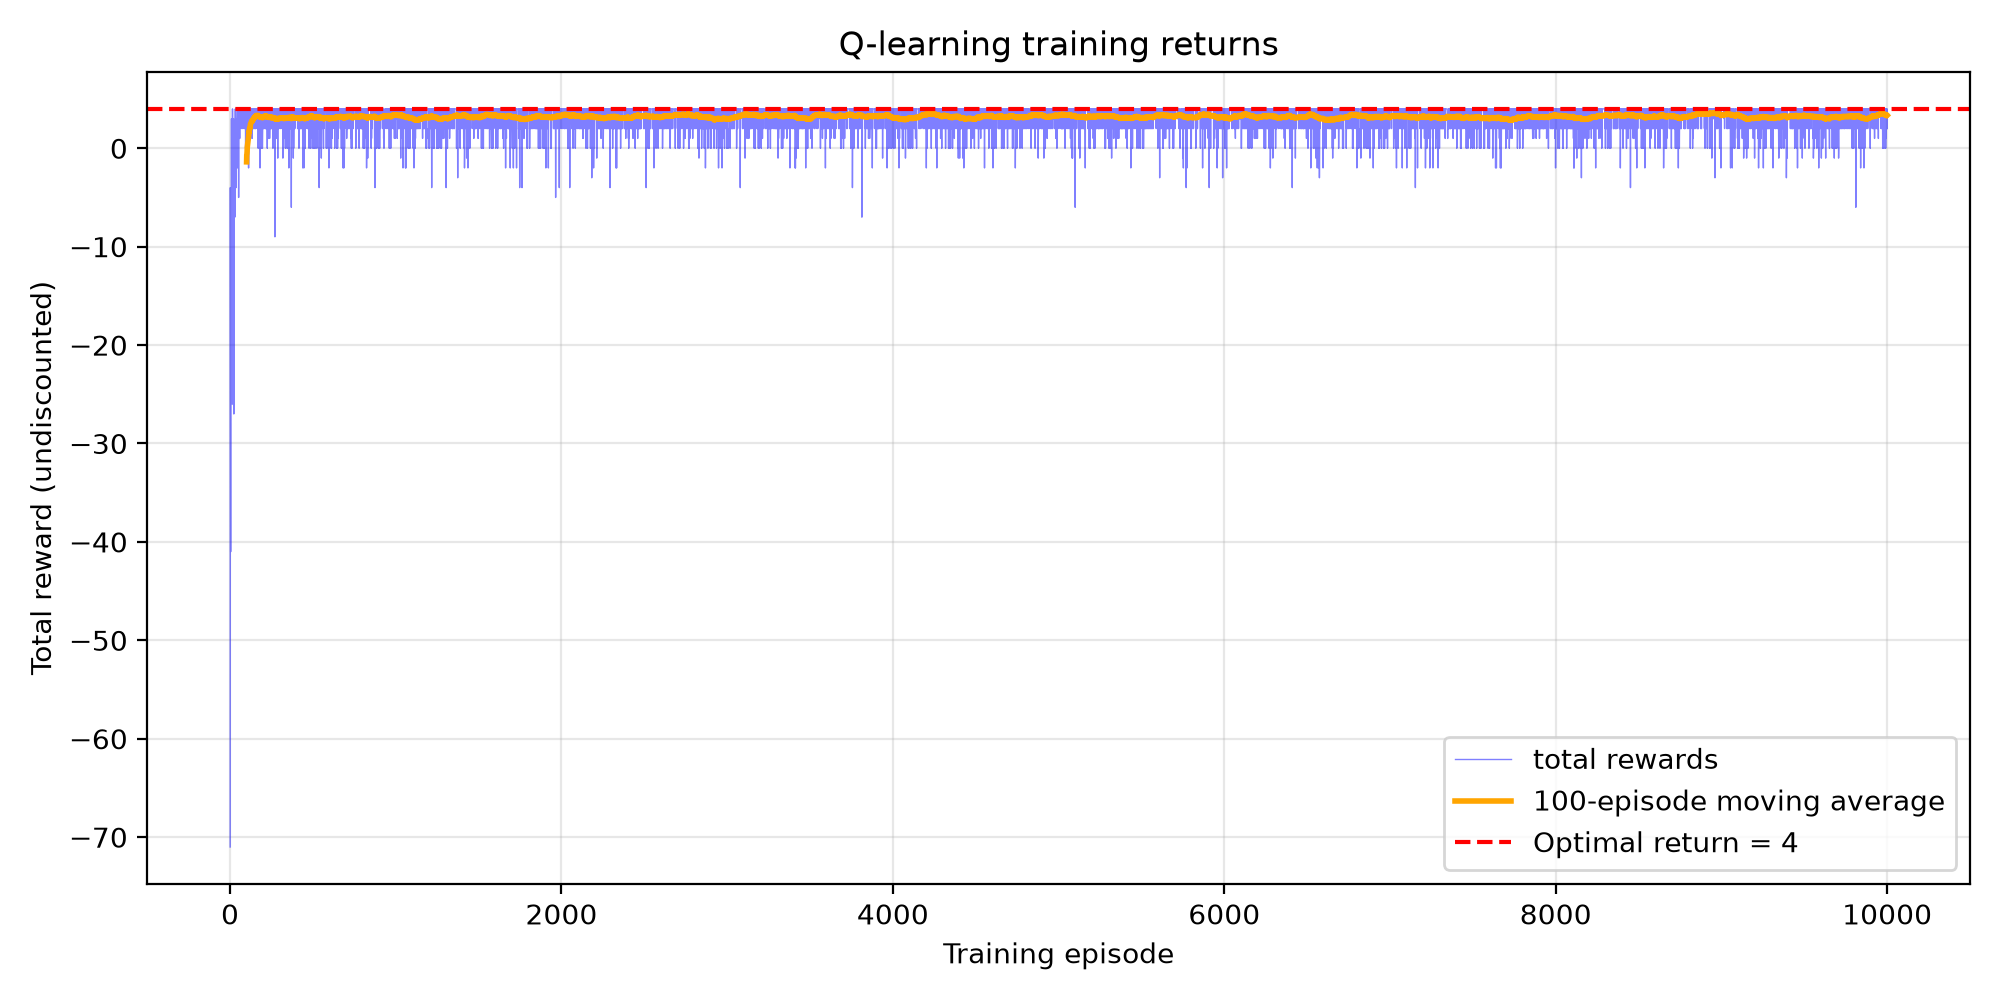
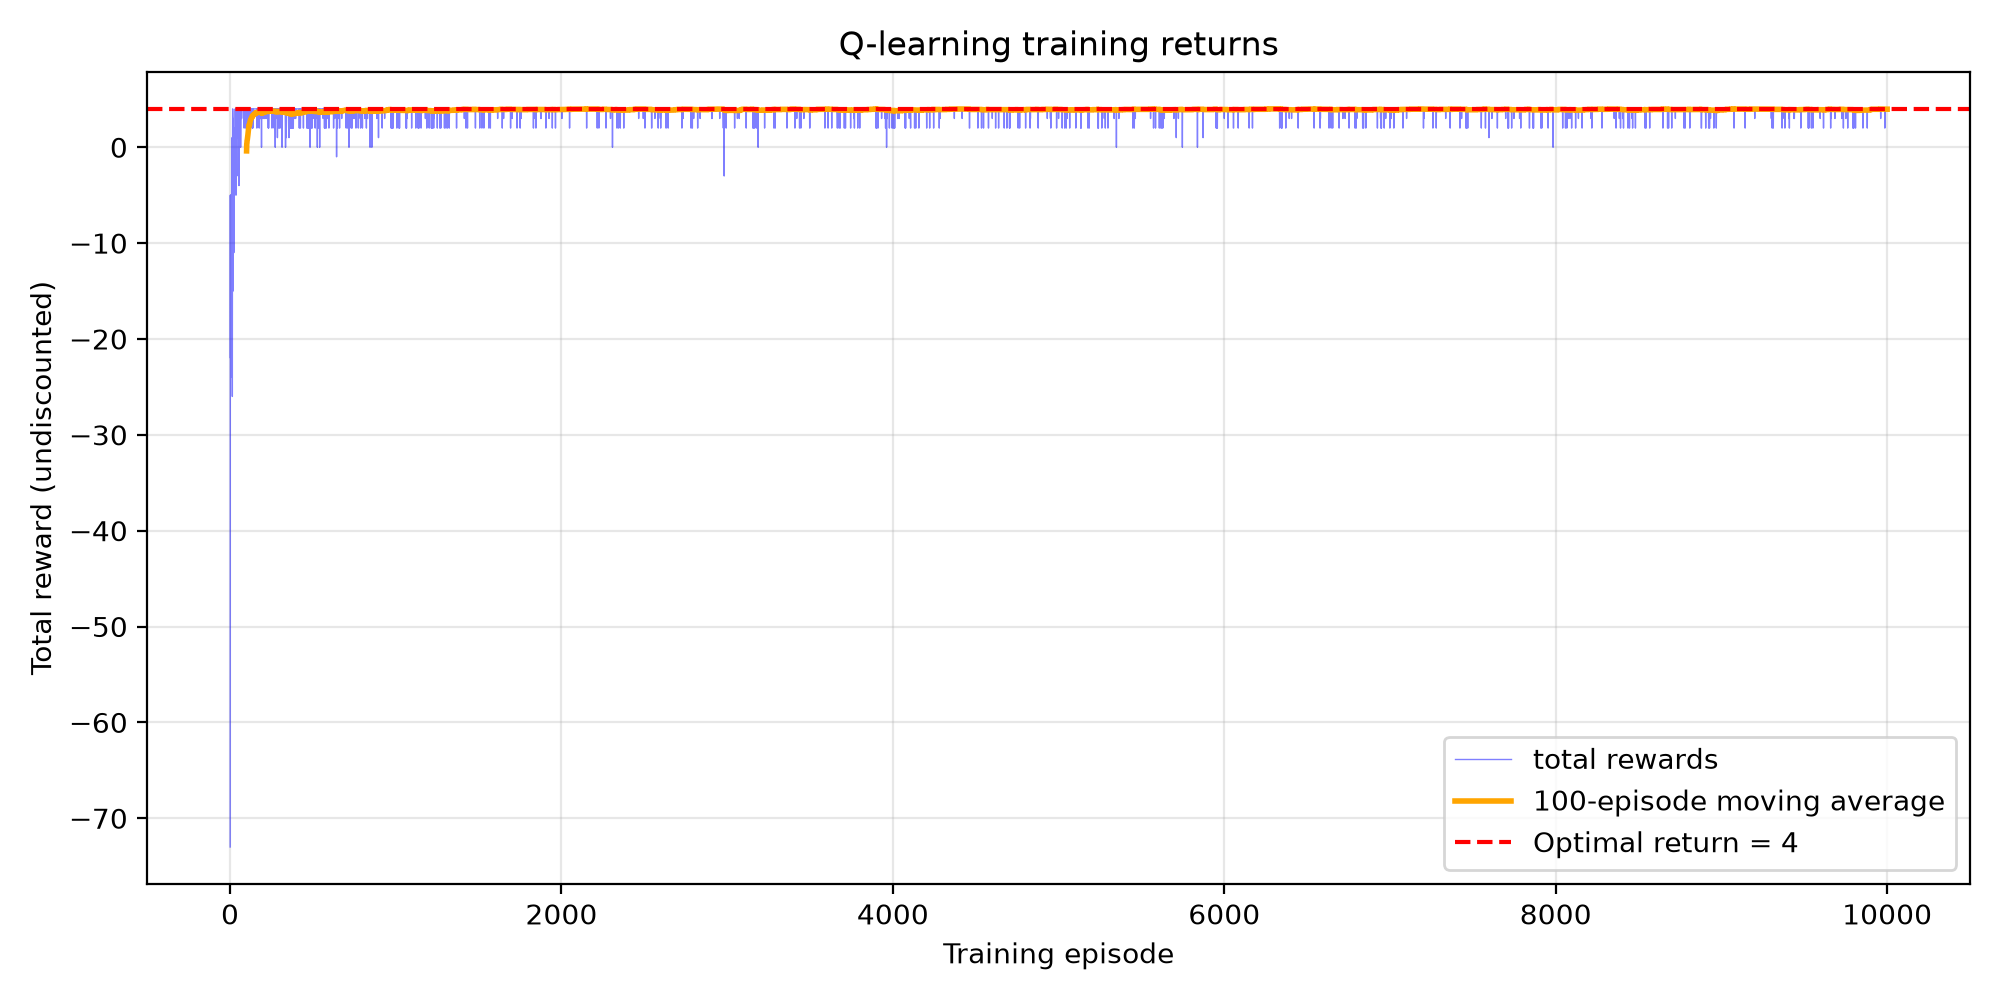
add some comments

diff --git a/agent.py b/agent.py
@@ -1,35 +1,44 @@
 import numpy as np
 
 class QlearningAgent:
+
+    #initialize the Q-learning agent with environment,
+    #learning rate, discount factor, and exploration rate
     def __init__(self, env, alpha=0.1, gamma=0.9, epsilon=0.1):
         self.env = env
-        self.alpha = alpha  # Learning rate
-        self.gamma = gamma  # Discount factor
-        self.epsilon = epsilon  # Exploration rate
-
-        # Initialize Q-table
+        self.alpha = alpha  # learning rate
+        self.gamma = gamma  # discount factor
+        self.epsilon = epsilon  # exploration rate
+        # initialize Q-table
         self.q_table = np.zeros((env.ROWS * env.COLS, len(env.ACTIONS)))
 
+    #epsilon-greedy action selection with exploration
     def choose_action_with_exploration(self, state_index):
         if np.random.rand() < self.epsilon:
-            # Explore: choose a random action
+            # explore: choose a random action
+            self.epsilon=max(0.01, self.epsilon * 0.995)  # decay epsilon
             return np.random.choice(list(self.env.ACTIONS.keys()))
         else:
-            # Exploit: choose the best action from Q-table
+            # exploit: choose the best action from Q-table
             return self.choose_action(state_index)
 
+    #choose the best action from Q-table
     def choose_action(self, state_index):
-        # Choose the best action from Q-table
+        #choose the best action from Q-table
         max=np.max(self.q_table[state_index])
         best_actions = np.where(self.q_table[state_index] == max)[0]
         return np.random.choice(best_actions)
 
+    #update the Q-value for the given state and action based on
+    #the received reward and next state
     def update_q_value(self, state_index, action, reward, next_state_index):
         best_next_action = self.choose_action(next_state_index)
         td_target = reward + self.gamma * self.q_table[next_state_index][best_next_action]
         td_delta = td_target - self.q_table[state_index][action]
         self.q_table[state_index][action] += self.alpha * td_delta
 
+    #get the learned policy by selecting the best action 
+    #for each state based on the Q-table
     def get_policy(self):
         policy = {}
         for state_index in range(self.q_table.shape[0]):
@@ -37,6 +46,7 @@ class QlearningAgent:
             policy[state_index] = best_action
         return policy
 
+    #convert a state (row, col) to a unique index for the Q-table
     def state_to_index(self, state):
         row, col = state
         return row * self.env.COLS + col

diff --git a/environment.py b/environment.py
@@ -1,7 +1,8 @@
+import numpy as np
 class GridWorld:
 
-    ROWS = 6
-    COLS = 5
+    ROWS = 5
+    COLS = 4
 
     START = (0,0)
     GOAL = (4,3)
@@ -16,42 +17,54 @@ class GridWorld:
     STEP_REWARD = -1
     GOAL_REWARD = 10
 
+    #initialize the environment
     def __init__(self):
         self.start_state = self.START
         self.goal_state = self.GOAL
         self.state=self.start_state
         self.step_reward = self.STEP_REWARD
         self.goal_reward = self.GOAL_REWARD
+        self.done = False  # initialize done flag
 
+    #reset the environment to the start state
     def reset(self):
         self.state = self.START
+        self.done = False
         return self.state
 
+    #reset the environment to a random state
+    def random_reset(self):
+        self.state = (np.random.randint(0, self.ROWS), np.random.randint(0, self.COLS))
+        self.done = False
+        return self.state
+
+    #step function to take an action and return
+    #the next state, reward, and done flag
     def step(self, action):
         if action not in self.ACTIONS:
             raise ValueError("Invalid action")
 
-        # Get the current position
+        # get the current position
         row, col = self.state
 
-        # Calculate new position based on action
+        # calculate new position based on action
         delta_row, delta_col = self.ACTIONS[action]
         new_row = row + delta_row
         new_col = col + delta_col
 
-        # Check for boundaries
+        # check for boundaries
         if 0 <= new_row < self.ROWS and 0 <= new_col < self.COLS:
             self.state = (new_row, new_col)
         else:
-            # If out of bounds, stay in the same state
+            # if out of bounds, stay in the same state
             self.state = (row, col)
 
-        # Check if goal is reached
+        # check if goal is reached
         if self.state == self.GOAL:
             reward = self.goal_reward
-            done = True
+            self.done = True
         else:
             reward = self.step_reward
-            done = False
+            self.done = False
 
-        return self.state, reward, done
+        return self.state, reward, self.done

diff --git a/main.py b/main.py
@@ -14,12 +14,11 @@ def train():
     for episode in range(num_episodes):
         state = env.reset()
         state_index = agent.state_to_index(state)
-        done = False
         total_reward = 0
 
-        while not done:
+        while not env.done:
             action = agent.choose_action_with_exploration(state_index)
-            next_state, reward, done = env.step(action)
+            next_state, reward, env.done = env.step(action)
             next_state_index = agent.state_to_index(next_state)
 
             agent.update_q_value(state_index, action, reward, next_state_index)
@@ -29,19 +28,18 @@ def train():
 
         returns.append(total_reward)
 
-    print("Q-Table:")
-    print(agent.q_table)
+    #print("Q-Table:")
+    #print(agent.q_table)
     return agent.get_policy(),returns
         
         
 
-
+# turn the action index to an arrow for visualization
 ARROWS={0: "↑", 1: "↓", 2: "←", 3: "→"}
 
 def main():
     policy, returns = train()
     print("Learned Policy:")
-    state_and_action = policy.items()
     for i in range(environment.GridWorld.ROWS):
         for j in range(environment.GridWorld.COLS):
             state_index = i * environment.GridWorld.COLS + j
